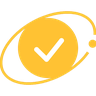
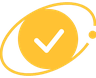
fix(verification): badge was shrunk by a legacy global .verified-badge rule (padding, 0.8rem font, blue disc); own class with guarded sizing, tighter-cropped art, 1.5em/min 20px; ads manager root class no longer hidden by ad blockers

diff --git a/components/VerifiedBadge.vue b/components/VerifiedBadge.vue
@@ -3,7 +3,7 @@
     :src="SRC[type]"
     :alt="`verified ${type}`"
     :title="TITLES[type]"
-    :class="['verified-badge', className]"
+    :class="['vbadge', className]"
     :style="{ '--badge-min': `${minPx}px` }"
     loading="lazy"
     decoding="async"
@@ -21,7 +21,7 @@ type BadgeType = 'personal' | 'business' | 'government'
 
 /**
  * Custom Yeller verification badge. Scales with the surrounding name's font-size
- * (the check disc is ~75% of the text height); `size` is the minimum in px.
+ * (the check disc is about the cap height of the name); `size` sets the minimum height in px.
  */
 const props = withDefaults(defineProps<{
   type?: BadgeType | string | null
@@ -33,17 +33,24 @@ const SRC: Record<BadgeType, string> = { personal: personalBadge, business: busi
 const TITLES: Record<BadgeType, string> = { personal: 'Verified individual', business: 'Verified business', government: 'Verified government' }
 
 const type = computed<BadgeType>(() => (props.type === 'business' || props.type === 'government' ? props.type : 'personal'))
-const minPx = computed(() => Math.max(18, props.size + 4))
+const minPx = computed(() => Math.max(20, props.size + 4))
 </script>
 
 <style scoped>
-.verified-badge {
-  display: inline-block;
-  width: max(var(--badge-min), 1.35em);
-  height: max(var(--badge-min), 1.35em);
-  margin: -0.25em 0 -0.25em 5px;
-  object-fit: contain;
-  background: transparent;
+/* !important: parent components' generic `img` rules must not resize or pad the badge. */
+img.vbadge {
+  display: inline-block !important;
+  height: max(var(--badge-min), 1.5em) !important;
+  width: auto !important;
+  max-width: none !important;
+  aspect-ratio: 6 / 5;
+  padding: 0 !important;
+  border: 0 !important;
+  border-radius: 0 !important;
+  margin: -0.3em 0 -0.3em 5px;
+  object-fit: contain !important;
+  background: transparent !important;
+  box-shadow: none !important;
   vertical-align: middle;
   transform: translateY(-1px);
   flex-shrink: 0;

diff --git a/pages/groups/[id].vue b/pages/groups/[id].vue
@@ -271,7 +271,7 @@ await load()
 .card h3 { font-size: .9rem; color: #94a3b8; margin: 0 0 6px; font-weight: 600; }
 .member { position: relative; display: flex; align-items: center; gap: 10px; padding: 8px 0; }
 .member-link { display: flex; align-items: center; gap: 12px; flex: 1; min-width: 0; color: inherit; text-decoration: none; }
-.member img { width: 44px; height: 44px; border-radius: 999px; object-fit: cover; }
+.member-link > img { width: 44px; height: 44px; border-radius: 999px; object-fit: cover; }
 .member-name { display: flex; flex-direction: column; min-width: 0; }
 .member-name strong { display: inline-flex; align-items: center; }
 .admin-tag { font-size: .7rem; color: #4ade80; border: 1px solid #166534; border-radius: 6px; padding: 2px 6px; flex-shrink: 0; }
@@ -293,5 +293,5 @@ input[type="search"], .name-edit input { background: #0f172a; border: 1px solid 
 .sheet-head { display: flex; justify-content: space-between; align-items: center; }
 .sheet-head h3 { margin: 0; }
 .person { display: flex; align-items: center; gap: 10px; cursor: pointer; }
-.person img { width: 40px; height: 40px; border-radius: 999px; object-fit: cover; }
+.person > img { width: 40px; height: 40px; border-radius: 999px; object-fit: cover; }
 </style>

diff --git a/pages/pages/[handle].vue b/pages/pages/[handle].vue
@@ -422,7 +422,7 @@ input, textarea, select { background: #0f172a; border: 1px solid #334155; border
 .sheet { width: min(520px, 100%); max-height: 70vh; overflow-y: auto; background: #1e293b; border-radius: 16px 16px 0 0; padding: 16px; display: flex; flex-direction: column; gap: 10px; }
 .sheet-head { display: flex; justify-content: space-between; align-items: center; }
 .follower { display: flex; align-items: center; gap: 10px; color: #e2e8f0; text-decoration: none; }
-.follower img { width: 40px; height: 40px; border-radius: 999px; object-fit: cover; }
+.follower > img { width: 40px; height: 40px; border-radius: 999px; object-fit: cover; }
 @media (max-width: 520px) {
   .cover { height: 140px; }
   .profile-header { flex-direction: column; align-items: center; text-align: center; }

diff --git a/pages/ads/index.vue b/pages/ads/index.vue
@@ -1,5 +1,5 @@
 <template>
-  <div class="ads-home">
+  <div class="cmps-home">
     <header class="head">
       <div>
         <h1>Ads Manager</h1>
@@ -244,7 +244,7 @@ onMounted(load)
 </script>
 
 <style scoped>
-.ads-home { max-width: 860px; margin: 0 auto; padding: 20px 16px 80px; color: #e2e8f0; }
+.cmps-home { max-width: 860px; margin: 0 auto; padding: 20px 16px 80px; color: #e2e8f0; }
 .head { display: flex; justify-content: space-between; gap: 12px; align-items: flex-start; flex-wrap: wrap; }
 h1 { font-size: 1.5rem; font-weight: 800; }
 .muted { color: #94a3b8; font-size: 0.9rem; margin: 6px 0 14px; }
